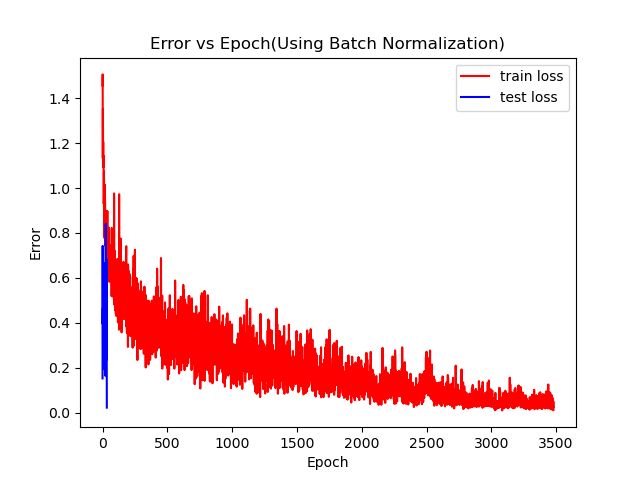
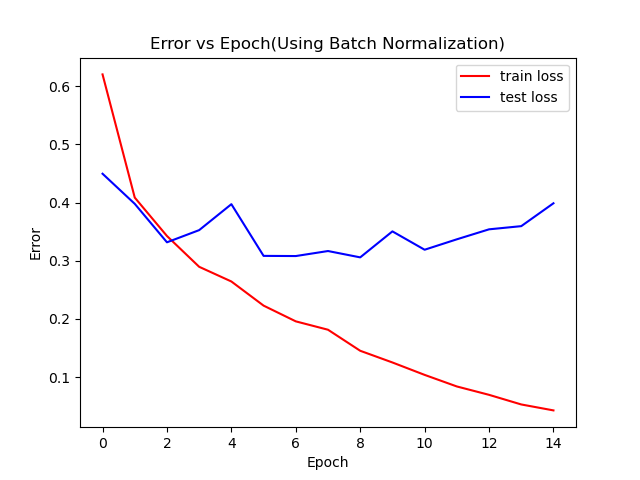
Fixing small bugs

diff --git a/cnn.py b/cnn.py
@@ -24,12 +24,12 @@ class CNN(nn.Module):
             nn.Conv2d(8, 16, kernel_size=5, stride=1, padding=2),
             nn.BatchNorm2d(16),
             nn.ReLU(),
-            nn.MaxPool2d(kernel_size=2, stride=2))
+            nn.MaxPool2d(kernel_size=2, stride=4))
         self.layer3 = nn.Sequential(
             nn.Conv2d(16, 32, kernel_size=7, stride=1, padding=2),
             nn.BatchNorm2d(32),
             nn.ReLU(),
-            nn.MaxPool2d(kernel_size=2, stride=2))
+            nn.MaxPool2d(kernel_size=3, stride=5))
         
     def just_dropout(self):
         self.layer1 = nn.Sequential(
@@ -41,12 +41,12 @@ class CNN(nn.Module):
             nn.Conv2d(8, 16, kernel_size=5, stride=1, padding=2),
             nn.Dropout(0.2),
             nn.ReLU(),
-            nn.MaxPool2d(kernel_size=2, stride=2))
+            nn.MaxPool2d(kernel_size=2, stride=4))
         self.layer3 = nn.Sequential(
             nn.Conv2d(16, 32, kernel_size=7, stride=1, padding=2),
             nn.Dropout(0.2),
             nn.ReLU(),
-            nn.MaxPool2d(kernel_size=2, stride=2))
+            nn.MaxPool2d(kernel_size=3, stride=5))
     
     def batch_and_drop(self):
         self.layer1 = nn.Sequential(
@@ -58,11 +58,11 @@ class CNN(nn.Module):
         self.layer2 = nn.Sequential(
             nn.Conv2d(8, 16, kernel_size=5, stride=1, padding=2),
             nn.ReLU(),
-            nn.MaxPool2d(kernel_size=2, stride=2))
+            nn.MaxPool2d(kernel_size=2, stride=4))
         self.layer3 = nn.Sequential(
             nn.Conv2d(16, 32, kernel_size=7, stride=1, padding=2),
             nn.ReLU(),
-            nn.MaxPool2d(kernel_size=2, stride=2))            
+            nn.MaxPool2d(kernel_size=3, stride=5))            
 
     def forward(self, x):
         out = self.layer1(x)
@@ -76,6 +76,7 @@ class CNN(nn.Module):
 # CNN TRAINING FUNC #
 
 device = torch.device('cuda:0' if torch.cuda.is_available() else 'cpu')
+trigger_times = 0
 
 def training(model,optimizer,loss_func,num_epochs,training_loader, validation_loader, early_stop):
     print('Training CNN...')
@@ -116,7 +117,6 @@ def training(model,optimizer,loss_func,num_epochs,training_loader, validation_lo
     return loss_training, loss_validation
 
 def early_stopping(model, current_val_loss, last_val_loss):
-    trigger_times = 0
     patience = 5
     print('The current loss:', current_val_loss)
     if current_val_loss > last_val_loss:

diff --git a/main.py b/main.py
@@ -15,15 +15,15 @@ training_loader, validation_loader, testing_loader = rd.get_data_loaders(
 
 num_classes = 4
 learning_rate = 0.001
-num_epochs = 15
+num_epochs = 100
 
 def experiment(exp_info):
     model = cnn.CNN(num_classes, exp_info[0]).to(cnn.device)
     loss_func = cnn.nn.CrossEntropyLoss()
     optimizer = torch.optim.Adam(model.parameters(),lr=learning_rate)
     training_loss, validation_loss = cnn.training(
-        model, optimizer, loss_func, num_epochs, training_loader, validation_loader, False)
-    cnn.testing(model,loss_func,testing_loader)
+        model, optimizer, loss_func, num_epochs, training_loader, validation_loader, True)
+    cnn.testing(model,testing_loader)
     pl.plot_error(training_loss,validation_loss,exp_info[1],exp_info[2])
 
 exp_batch_info = ["batch","t1_error_batch","(Using Batch Normalization)"]
@@ -31,4 +31,7 @@ exp_dropout_info = ["dropout","t1_error_dropout","(Using Dropout)"]
 exp_batch_drop_info = ["both","t1_error_batch_drop","(Using Dropout and Batch Normalization)"]
 exp_early_stop_info = ["dropout","t1_error_early_stop","(Using Early Stopping)"]
 
-experiment(exp_batch_info)
+#experiment(exp_batch_info)
+#experiment(exp_dropout_info)
+#experiment(exp_batch_drop_info)
+experiment(exp_early_stop_info)
